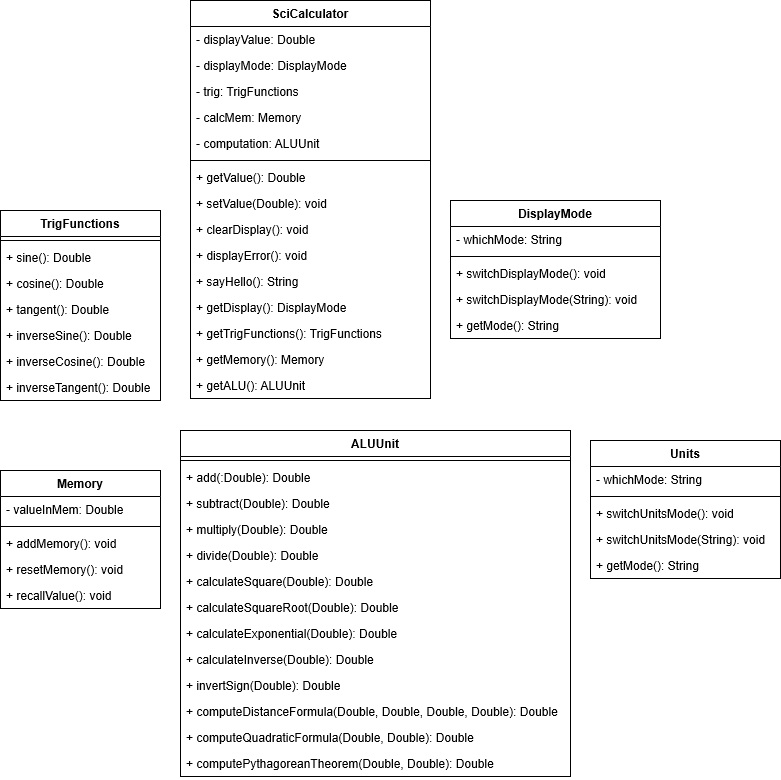
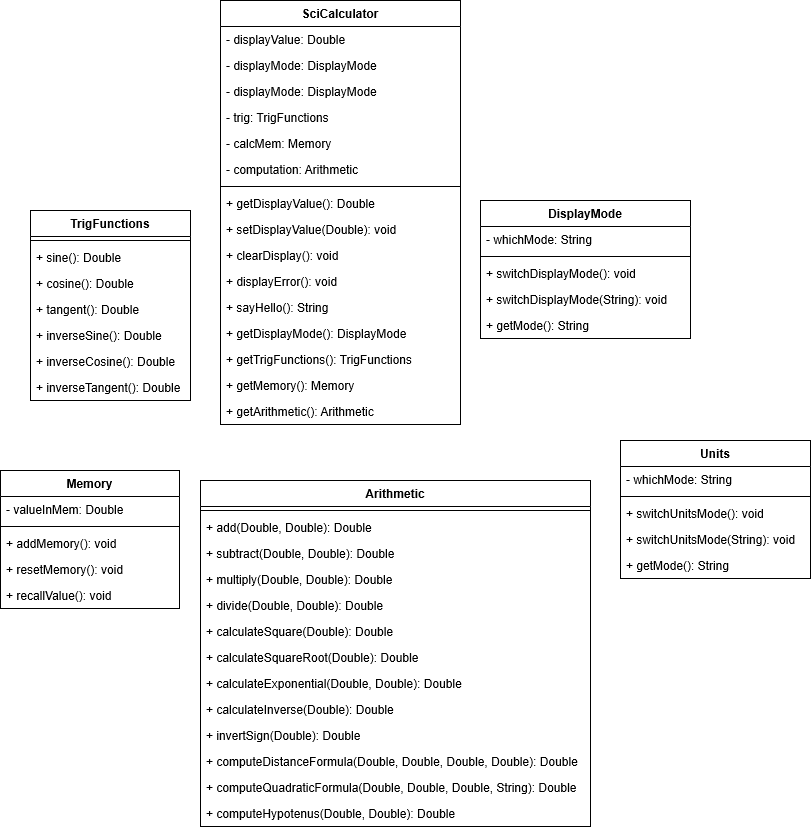
modified things

diff --git a/src/test/java/com/codedifferently/ArithmeticTest.java b/src/test/java/com/codedifferently/ArithmeticTest.java
@@ -233,5 +233,22 @@ public class ArithmeticTest {
         Assert.assertEquals(posExpectedResult, posActualResult, 0.01);
         Assert.assertEquals(negExpectedResult, negActualResult, 0.01);
     }
+
+    @Test
+    public void computeHypotenus() {
+        //the numbers I used resulted in negative numbers for both positive and negative
+        double expectedResult = 9.220;
+
+         //when
+        SciCalculator unit = new SciCalculator();
+        Arithmetic alu = new Arithmetic();
+
+        double newValue = alu.computeHypotenus(6.0, 7.0);
+        unit.setDisplayValue(newValue);
+        double actualResult = unit.getDisplayValue();
+
+        //then
+        Assert.assertEquals(expectedResult, actualResult, 0.01);
+    }
     
 }

diff --git a/src/main/java/com/codedifferently/Arithmetic.java b/src/main/java/com/codedifferently/Arithmetic.java
@@ -70,4 +70,8 @@ public class Arithmetic {
         return 0.0;
     }
 
+    public double computeHypotenus(double a, double b) {
+        return Math.sqrt(Math.pow(a, 2) + Math.pow(b, 2));
+    }
+
 }
